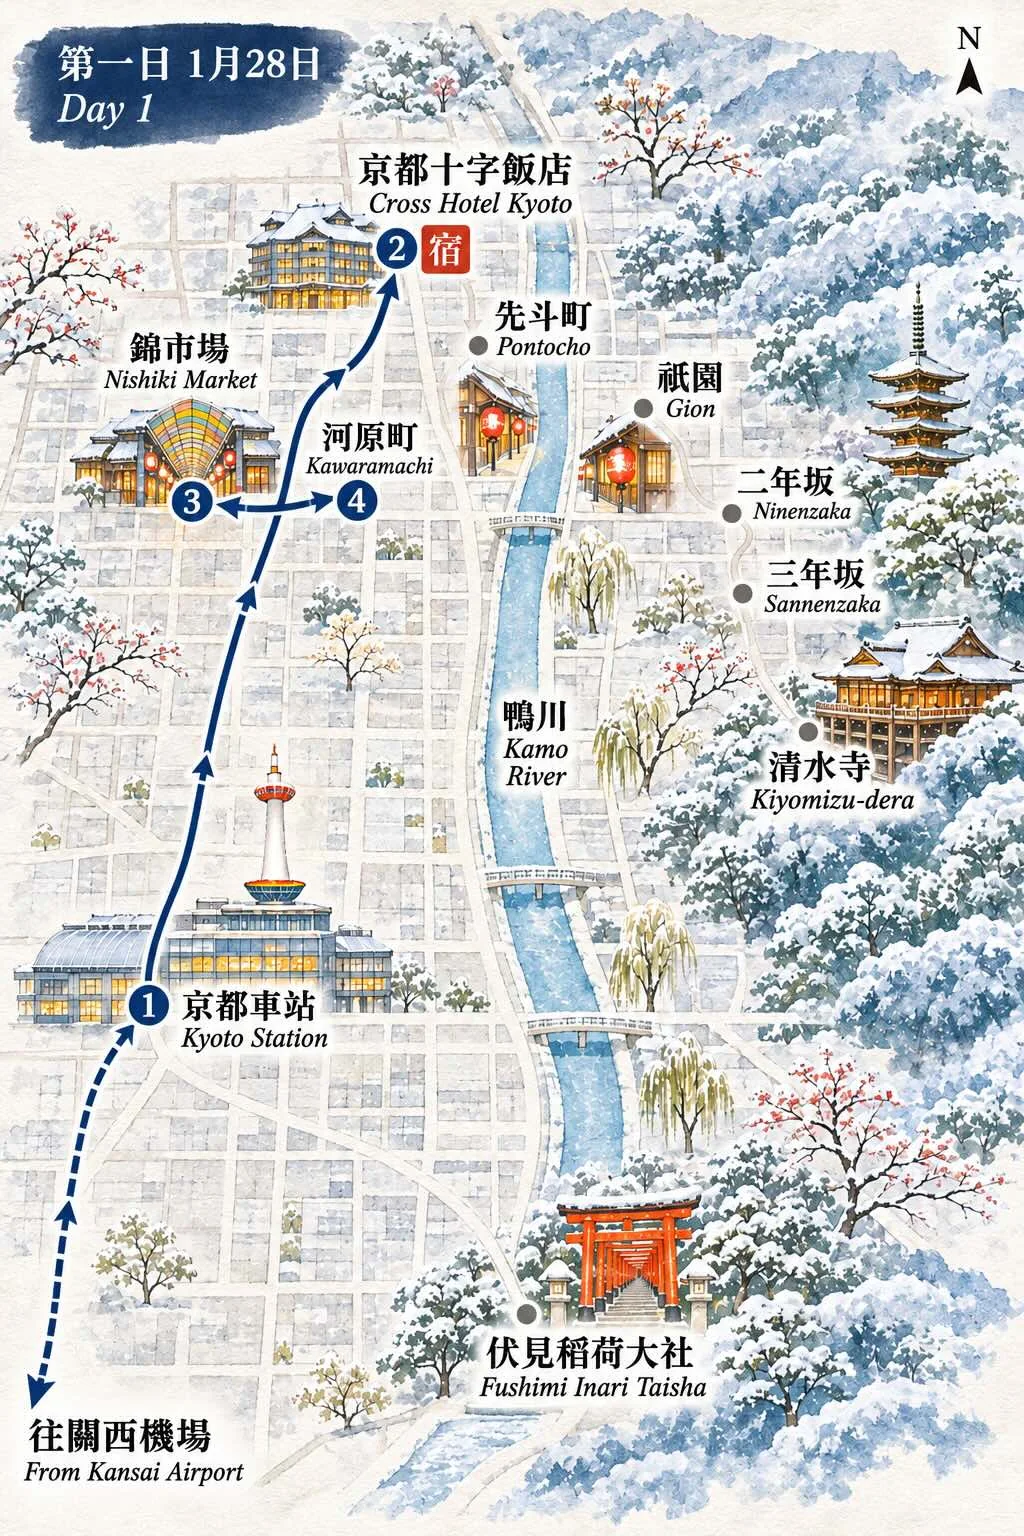
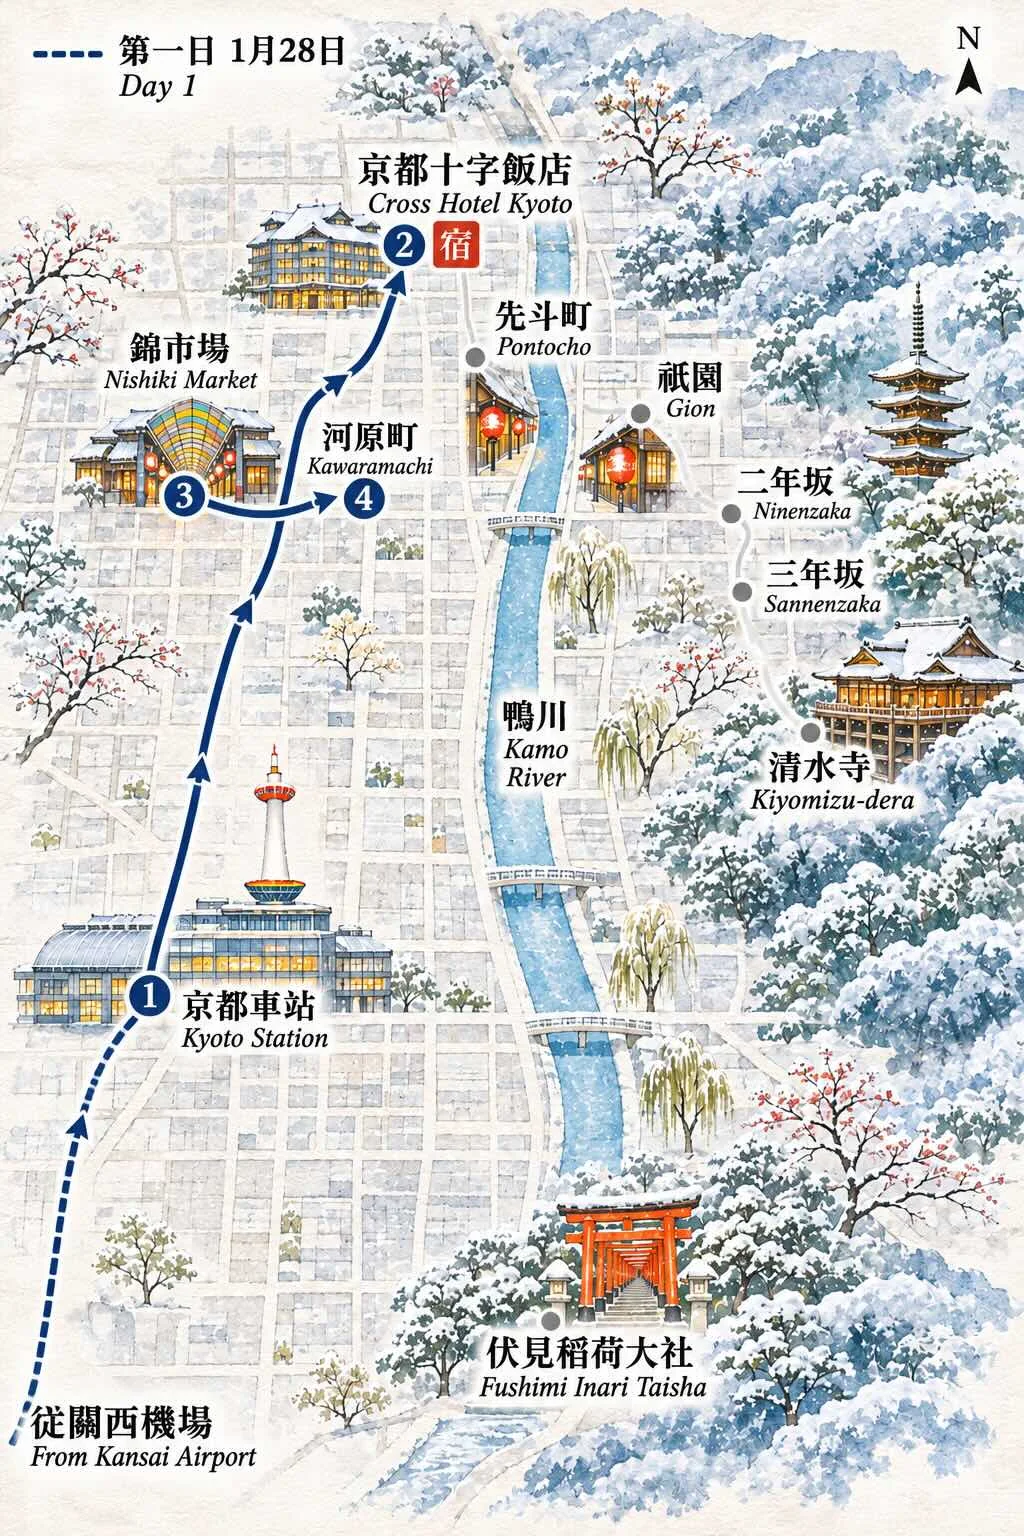
更新第一日、第二日路線圖
Day 1 now reads 從關西機場 and Day 2 draws the start from the hotel to
Kiyomizu-dera. Map images carry a version query so browsers refetch them.

Claude-Session: https://claude.ai/code/session_01JvJKWDnmpNQPWiVG7U7TXY

diff --git a/assets/js/app.js b/assets/js/app.js
@@ -10,7 +10,7 @@ const STAT = { v: ['v', '已查證'], e: ['e', '估算'], c: ['c', '出發前確
 const tag = s => s && STAT[s] ? `<span class="tag ${STAT[s][0]}">${STAT[s][1]}</span>` : '';
 const gmap = q => 'https://www.google.com/maps/search/?api=1&query=' + encodeURIComponent(q);
 const gdir = (o, d, m = 'transit') => 'https://www.google.com/maps/dir/?api=1&origin=' + encodeURIComponent(o) + '&destination=' + encodeURIComponent(d) + '&travelmode=' + m;
-const PHT = T.photos, psrc = (n, w) => `assets/photos/${n}-${w}.webp`;
+const PHT = T.photos, PV = T.photoVer || {}, psrc = (n, w) => `assets/photos/${n}-${w}.webp${PV[n] ? '?v=' + PV[n] : ''}`;
 const pic = (n, alt, sizes = '100vw', eager) => { const s = PHT[n]; if (!s) return ''; const big = s[s.length - 1];
   return `<img src="${psrc(n, s[0][0])}" srcset="${s.map(([w]) => `${psrc(n, w)} ${w}w`).join(', ')}" sizes="${sizes}" width="${big[0]}" height="${big[1]}" alt="${esc(alt)}"${eager ? '' : ' loading="lazy"'} decoding="async">`; };
 const ptitle = n => { const g = T.gallery.find(x => x.photo === n); return g ? g.t : ''; };

diff --git a/assets/js/data.js b/assets/js/data.js
@@ -16,6 +16,7 @@ window.TRIP = {
     { day: 2, photo: 'map-day2', t: '第二日路線：清水寺、三年坂、二年坂、祇園、先斗町' },
     { day: 3, photo: 'map-day3', t: '第三日路線：伏見稻荷大社、京都車站、關西機場' }
   ],
+  photoVer: { 'map-day1': 2, 'map-day2': 2 },
   photoNote: '照片與路線地圖為 AI 生成的情境示意圖，不是實地拍攝；京都一月底不一定會下雪。',
 
   hotel: {
